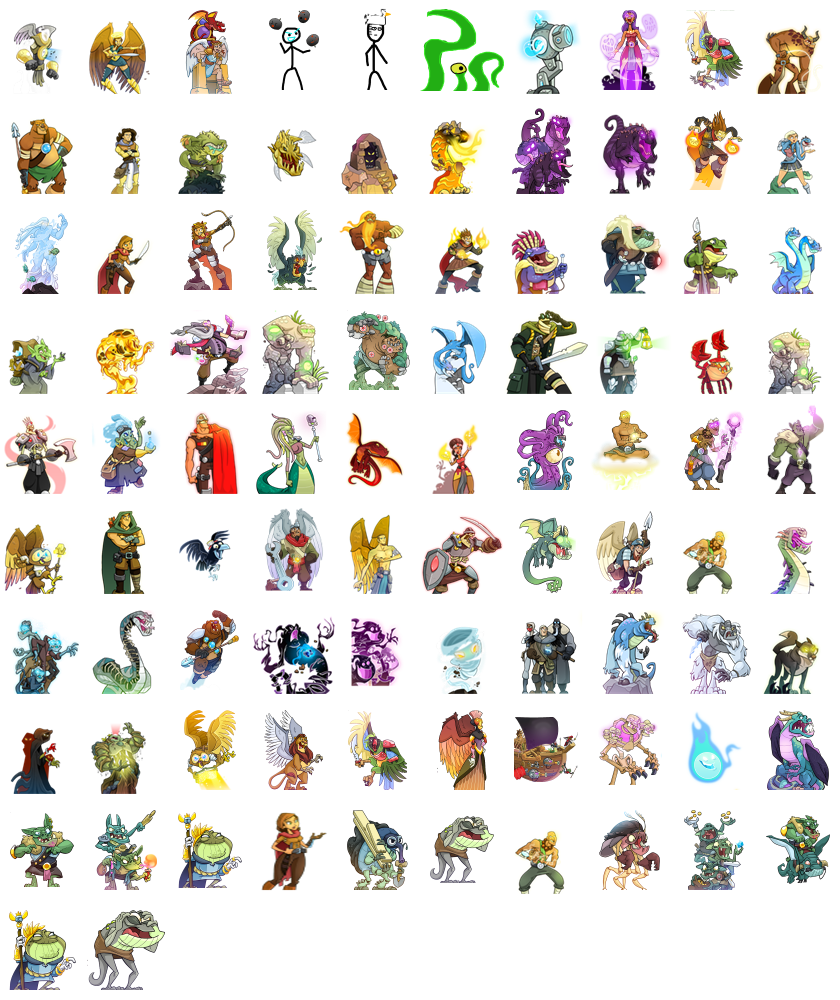
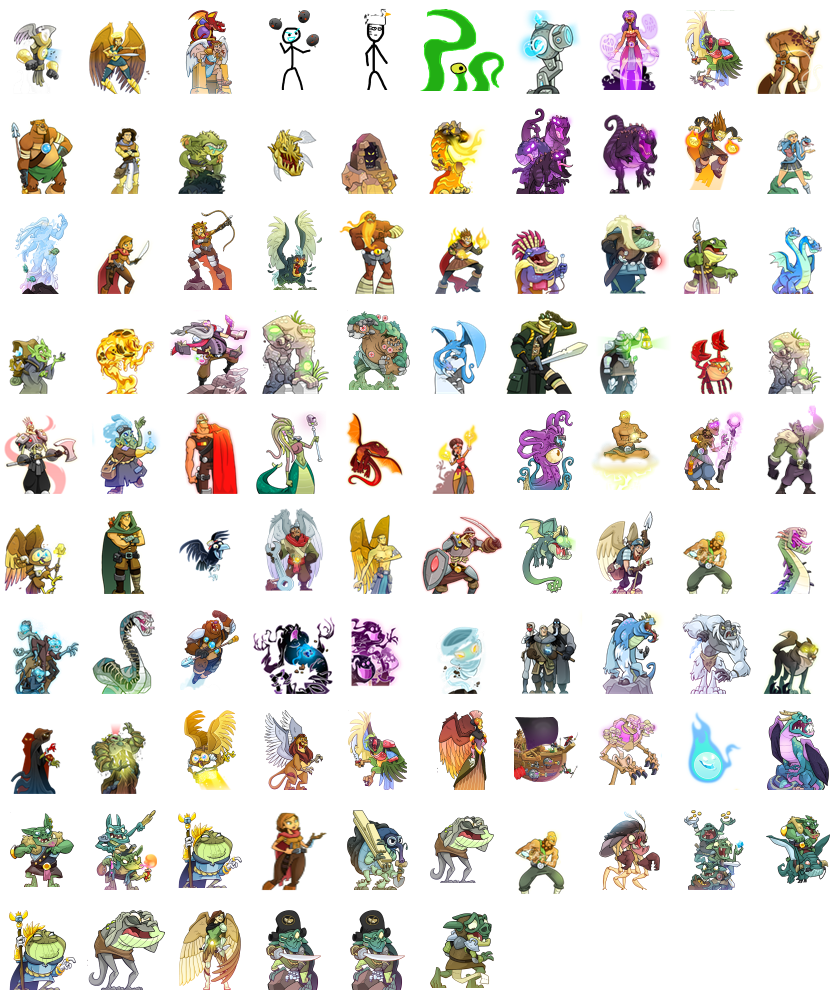
New commander art

Changed region(s): [[0.2167, 0.899, 0.5881, 0.992]]

diff --git a/styles/spritesheet.css b/styles/spritesheet.css
@@ -961,3 +961,7 @@
 .portrait-portrait_dragonridingringleader{ background-position: -756px -800px; background-image: url('../res/cardImages/PortraitSheet1.jpg');}
 .portrait-portrait_new1{ background-position: -0px -900px; background-image: url('../res/cardImages/PortraitSheet1.jpg');}
 .portrait-portrait_new2{ background-position: -84px -900px; background-image: url('../res/cardImages/PortraitSheet1.jpg');}
+.portrait-portrait_Portrait_Spy_Angel{ background-position: -168px -900px; background-image: url('../res/cardImages/PortraitSheet1.jpg');}
+.portrait-portrait_goblin_captain{ background-position: -252px -900px; background-image: url('../res/cardImages/PortraitSheet1.jpg');}
+.portrait-portrait_Portrait_Goblin_Captain{ background-position: -336px -900px; background-image: url('../res/cardImages/PortraitSheet1.jpg');}
+.portrait-portrait_Portrait_Potty_Goblin{ background-position: -420px -900px; background-image: url('../res/cardImages/PortraitSheet1.jpg');}
